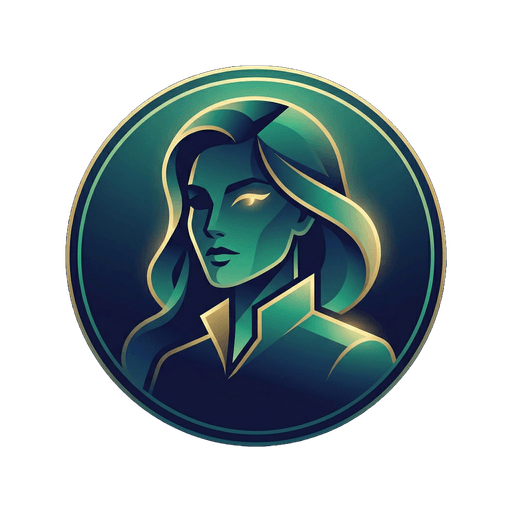
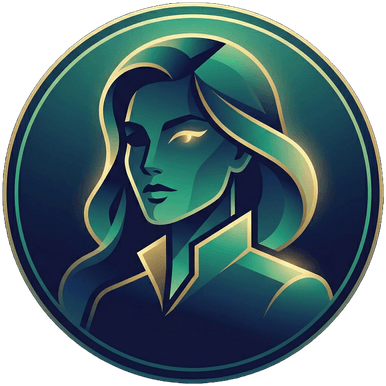
regenerate-report: step 4 — add regenerate button to reports page

diff --git a/src/app/reports/page.tsx b/src/app/reports/page.tsx
@@ -19,7 +19,7 @@ import {
 import { Badge } from "@/components/ui/badge";
 import { Button } from "@/components/ui/button";
 import { Skeleton } from "@/components/ui/skeleton";
-import { Trash2, FileText, Upload, X } from "lucide-react";
+import { Trash2, FileText, Upload, X, RefreshCw } from "lucide-react";
 import { cn } from "@/lib/utils";
 import { notificar as notify } from "@/lib/notifier";
 import { typography, icon, layout, dialog } from "@/lib/design-system";
@@ -65,6 +65,29 @@ export default function ReportsPage() {
       }
     },
     [revalidar],
+  );
+
+  const handleRegenerar = useCallback(
+    async (identificador: string) => {
+      try {
+        const resposta = await fetch(`/api/reports/${identificador}/regenerate`, {
+          method: "POST",
+        });
+        if (resposta.ok) {
+          notify.success("Reextracao iniciada", {
+            description: "Voce sera notificado quando concluir.",
+            actionUrl: "/",
+            actionLabel: "Ver dashboard",
+          });
+        } else {
+          const dados = await resposta.json() as { erro?: string };
+          notify.error(dados.erro ?? "Falha ao iniciar reextracao");
+        }
+      } catch {
+        notify.error("Falha ao iniciar reextracao");
+      }
+    },
+    [],
   );
 
   return (
@@ -167,6 +190,15 @@ export default function ReportsPage() {
                           </Badge>
                         </TableCell>
                         <TableCell className="text-right">
+                          <Button
+                            variant="ghost"
+                            size="sm"
+                            disabled={relatorio.statusExtracao !== "concluido"}
+                            onClick={() => void handleRegenerar(relatorio.identificador)}
+                            title="Reextrair relatorio"
+                          >
+                            <RefreshCw className={icon.button} />
+                          </Button>
                           <Button
                             variant="ghost"
                             size="sm"

diff --git a/src/components/ui/takeaway-box.tsx b/src/components/ui/takeaway-box.tsx
@@ -1,11 +1,11 @@
 "use client";
 
 import { useState, useCallback, useRef } from "react";
+import Image from "next/image";
 import {
   CheckCircle2,
   AlertCircle,
   Info,
-  BotIcon,
   Loader2,
   RefreshCw,
   ListPlus,
@@ -346,15 +346,19 @@ export function TakeawayBox({ conclusoes, className }: TakeawayBoxProps) {
                         className="mt-0.5 cursor-pointer rounded-sm p-0.5 transition-colors"
                         aria-label="Pedir para a Fortuna explicar"
                       >
-                        <BotIcon
+                        <Image
+                          src="/fortuna-minimal.png"
+                          alt="Fortuna"
+                          width={16}
+                          height={16}
                           className={cn(
                             icon.button,
                             "ai-icon-hover",
                             isOpen
-                              ? "text-muted-foreground"
-                              : "text-muted-foreground/60",
+                              ? "opacity-100"
+                              : "opacity-60",
                           )}
-                          aria-hidden="true"
+                          aria-hidden
                         />
                       </button>
                     </TooltipTrigger>

diff --git a/src/app/desempenho/page.tsx b/src/app/desempenho/page.tsx
@@ -9,7 +9,8 @@ import { Header } from "@/components/layout/header";
 import { Skeleton } from "@/components/ui/skeleton";
 import { Card, CardContent } from "@/components/ui/card";
 import { Button } from "@/components/ui/button";
-import { BarChart3, BotIcon, RefreshCw, AlertTriangle, Loader2 } from "lucide-react";
+import Image from "next/image";
+import { BarChart3, RefreshCw, AlertTriangle, Loader2 } from "lucide-react";
 import { useDadosAtivo, useListaAtivosCarteira } from "@/hooks/use-asset-data";
 import { useAssetAiAnalysis, dispararAnaliseIaAtivo } from "@/hooks/use-asset-ai-analysis";
 import { GridAtivosCarteira } from "@/components/desempenho/portfolio-assets-grid";
@@ -150,7 +151,7 @@ function DesempenhoConteudo() {
               {analisandoComIa ? (
                 <Loader2 className="relative z-10 h-4 w-4 animate-spin" />
               ) : (
-                <BotIcon className="relative z-10 h-4 w-4" />
+                <Image src="/fortuna-minimal.png" alt="Fortuna" width={16} height={16} className="relative z-10 h-4 w-4" />
               )}
               <span className="relative z-10">{analisandoComIa ? "Analisando..." : "Analisar com a Fortuna"}</span>
             </Button>

diff --git a/src/components/chat/chat-widget.tsx b/src/components/chat/chat-widget.tsx
@@ -182,7 +182,7 @@ export function ChatWidget() {
           )}
           type="button"
         >
-          <Image src="/fortuna-icon.png" alt="Fortuna" width={56} height={56} className="h-14 w-14 object-cover" />
+          <Image src="/fortuna-minimal.png" alt="Fortuna" width={56} height={56} className="h-14 w-14 object-cover" />
           <span className="sr-only">Abrir Fortuna</span>
         </button>
       )}
@@ -253,7 +253,7 @@ export function ChatWidget() {
                   <Menu className={fs ? "h-6 w-6" : "h-4 w-4"} />
                 </Button>
 
-                <Image src="/fortuna-icon.png" alt="Fortuna" width={28} height={28} className={cn("rounded-full", fs ? "h-7 w-7" : "h-5 w-5")} />
+                <Image src="/fortuna-minimal.png" alt="Fortuna" width={28} height={28} className={cn("rounded-full", fs ? "h-7 w-7" : "h-5 w-5")} />
                 <h3 className={cn("font-medium", fs ? "text-lg" : "text-sm")}>Fortuna</h3>
               </div>
               <div className="flex items-center gap-1">

diff --git a/src/app/(dashboard)/page.tsx b/src/app/(dashboard)/page.tsx
@@ -17,7 +17,8 @@ import { formatarMesAno } from "@/lib/format-date";
 import { typography } from "@/lib/design-system";
 import { Skeleton } from "@/components/ui/skeleton";
 import { Card, CardContent } from "@/components/ui/card";
-import { Upload, LayoutDashboard, BotIcon } from "lucide-react";
+import Image from "next/image";
+import { Upload, LayoutDashboard } from "lucide-react";
 import { formatarMoeda } from "@/domain/value-objects/money";
 import type { ComparacaoBenchmarks } from "@/schemas/report-extraction.schema";
 import { isAiEnabled } from "@/lib/ai-features";
@@ -117,7 +118,7 @@ function DashboardHeadline({
             }
             className="text-muted-foreground hover:text-foreground flex shrink-0 items-center gap-1.5 text-sm underline transition-colors"
           >
-            <BotIcon className="h-4 w-4" />
+            <Image src="/fortuna-minimal.png" alt="Fortuna" width={16} height={16} className="h-4 w-4" />
             Perguntar à Fortuna
           </button>
         )}

diff --git a/src/components/chat/chat-body.tsx b/src/components/chat/chat-body.tsx
@@ -1,7 +1,7 @@
 "use client";
 
 import { useRef, useEffect } from "react";
-import { BotIcon } from "lucide-react";
+import Image from "next/image";
 import { MensagemChatBolha } from "@/components/chat/chat-message";
 import { CampoEntradaChat } from "@/components/chat/chat-input-field";
 import { SuggestionChips } from "@/components/chat/suggestion-chips";
@@ -68,7 +68,7 @@ export function ChatBody({
             "flex h-full flex-col items-center justify-center text-center",
             fs ? "mx-auto max-w-4xl gap-6" : "gap-4",
           )}>
-            <BotIcon className={cn("text-muted-foreground", fs ? "h-12 w-12" : "h-10 w-10")} />
+            <Image src="/fortuna-minimal.png" alt="Fortuna" width={48} height={48} className={cn("opacity-60", fs ? "h-12 w-12" : "h-10 w-10")} />
             <div>
               <p className={cn("text-muted-foreground", fs ? "text-base" : "text-sm")}>
                 Pergunte sobre seus investimentos.

diff --git a/src/components/desempenho/asset-ai-analysis.tsx b/src/components/desempenho/asset-ai-analysis.tsx
@@ -1,10 +1,10 @@
 "use client";
 
+import Image from "next/image";
 import { Card, CardContent, CardDescription, CardHeader, CardTitle } from "@/components/ui/card";
 import { Badge } from "@/components/ui/badge";
 import { Separator } from "@/components/ui/separator";
 import {
-  BotIcon,
   Shield,
   TrendingUp,
   Wallet,
@@ -62,7 +62,7 @@ export function AnaliseIaAtivo({ analise }: AnaliseIaAtivoProps) {
         <CardHeader>
           <div className="flex items-center justify-between">
             <div className="flex items-center gap-2">
-              <BotIcon className={cn(icon.cardTitle, "text-muted-foreground")} />
+              <Image src="/fortuna-minimal.png" alt="Fortuna" width={20} height={20} className={cn(icon.cardTitle)} />
               <CardTitle>Análise Fortuna</CardTitle>
             </div>
             <Badge

diff --git a/src/components/ui/ai-explain-button.tsx b/src/components/ui/ai-explain-button.tsx
@@ -1,7 +1,7 @@
 "use client";
 
 import { useCallback } from "react";
-import { BotIcon } from "lucide-react";
+import Image from "next/image";
 import { Button } from "@/components/ui/button";
 import {
   Tooltip,
@@ -59,7 +59,7 @@ export function BotaoExplicarIA({ identificadorCard }: BotaoExplicarIAProps) {
             className="ai-icon-hover text-muted-foreground/60"
             aria-label="Pedir para a Fortuna explicar este gráfico"
           >
-            <BotIcon />
+            <Image src="/fortuna-minimal.png" alt="Fortuna" width={16} height={16} className="h-4 w-4" />
           </Button>
         </TooltipTrigger>
         <TooltipContent side="left" sideOffset={4}>

diff --git a/src/components/ui/logo.tsx b/src/components/ui/logo.tsx
@@ -3,12 +3,12 @@ import { cn } from "@/lib/utils";
 
 /**
  * Brand logo mark — Fortuna goddess icon for header use.
- * Clipped to circle to hide the black background corners.
+ * Clipped to circle for consistent shape.
  */
 export function Logo({ className }: { className?: string }) {
   return (
     <Image
-      src="/fortuna-icon.png"
+      src="/fortuna-minimal.png"
       alt="Fortuna"
       width={50}
       height={50}

diff --git a/src/components/chat/chat-message.tsx b/src/components/chat/chat-message.tsx
@@ -48,7 +48,7 @@ export function MensagemChatBolha({
         </Avatar>
       ) : (
         <Avatar className={cn("shrink-0 border border-border/50", fs ? "h-9 w-9" : "h-8 w-8")}>
-          <AvatarImage src="/fortuna-icon.png" alt="Fortuna" />
+          <AvatarImage src="/fortuna-minimal.png" alt="Fortuna" />
           <AvatarFallback className="bg-primary/10 text-xs">F</AvatarFallback>
         </Avatar>
       )}
